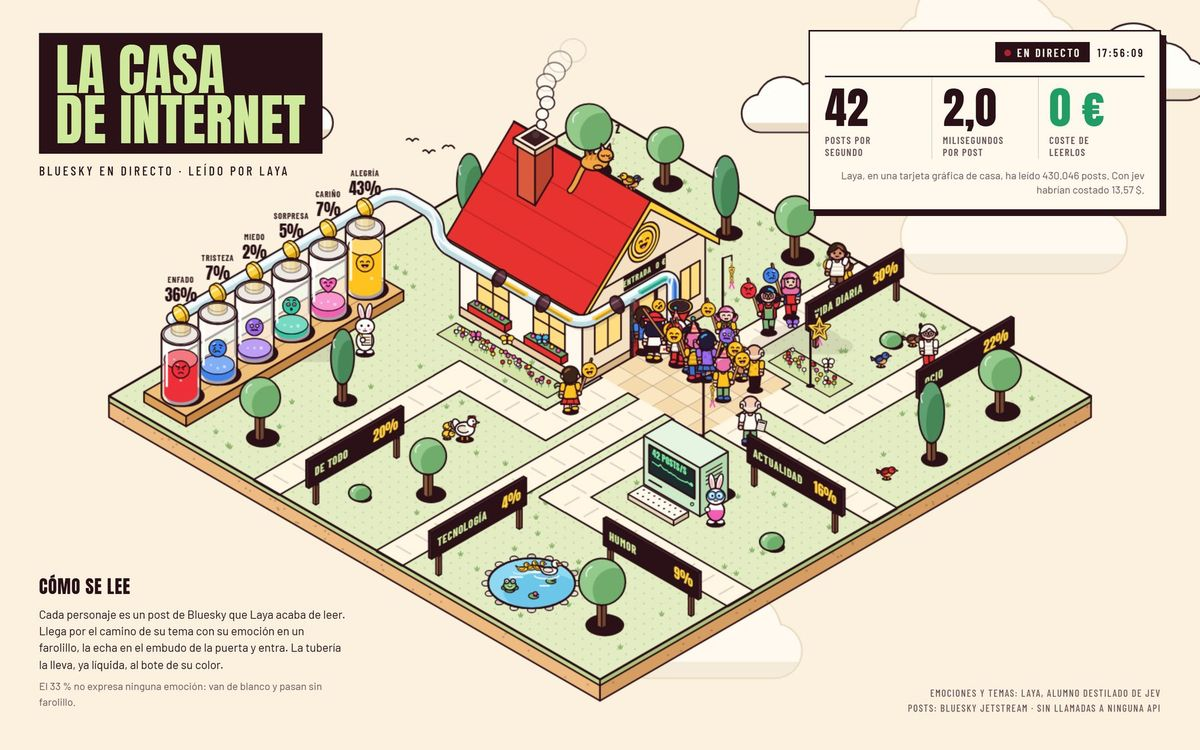
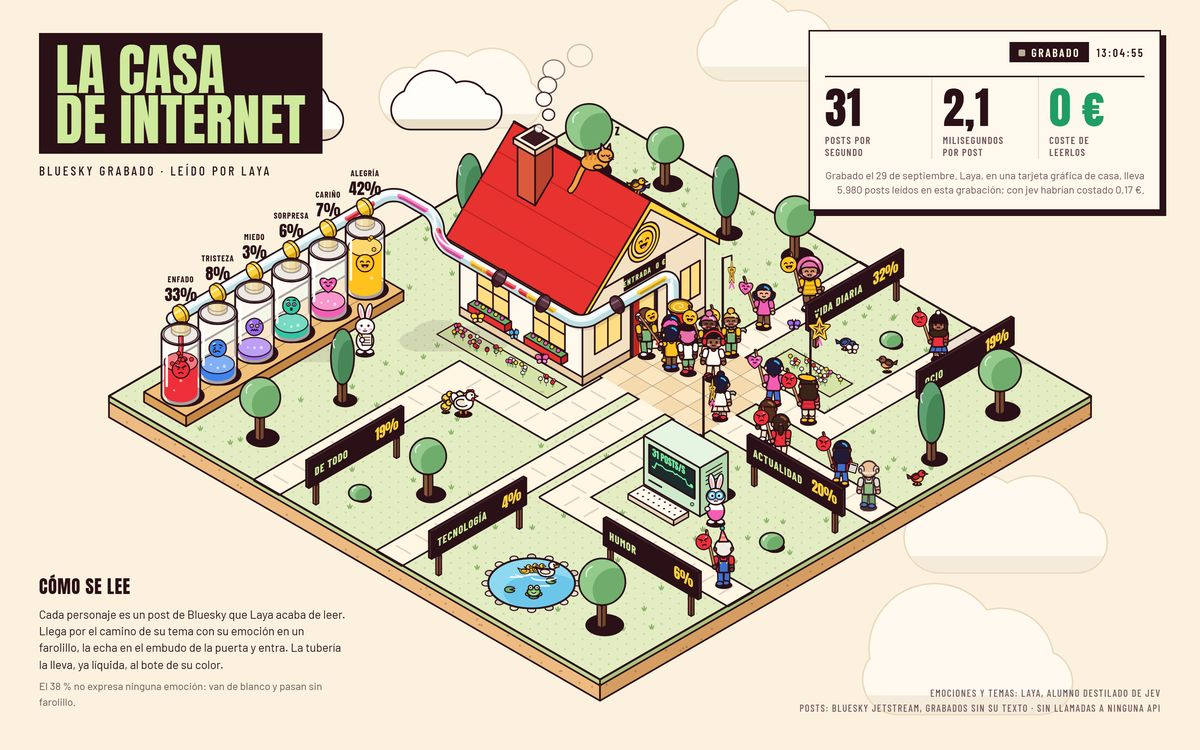
Capturas con los costes en euros y subtítulo corto en la casa grabada
El subtítulo de la versión grabada, con la fecha, era más largo que el del directo
y se montaba sobre la etiqueta del bote de alegría; la fecha ya sale en la nota.

Claude-Session: https://claude.ai/code/session_01CSoqnJH7vqbRjwjvzXemqk

diff --git a/index.html b/index.html
@@ -99,7 +99,7 @@ footer p { margin: 0 0 8px; max-width: 90ch; }
 
     <article class="demo">
       <div class="pics">
-        <img src="demos/img/comecocos-jev.jpg" alt="El comecocos con la bandera de España en el laberinto, los rivales con sus banderas y un panel con las probabilidades de cada salida" width="900" height="715">
+        <img src="demos/img/comecocos-jev.jpg" alt="El comecocos con la bandera de España en el laberinto, los rivales con sus banderas y un panel con las probabilidades de cada salida" width="900" height="663">
         <img src="demos/img/comecocos-laya.jpg" alt="El laberinto durante una partida de Laya" width="596" height="626">
       </div>
       <div class="body">

diff --git a/bluesky/static/casa.html b/bluesky/static/casa.html
@@ -1983,7 +1983,7 @@ async function playRecording(url) {
   const day = new Date(rec.recorded_at * 1000).toLocaleDateString("es-ES", { day: "numeric", month: "long", year: "numeric" });
   $("pill").classList.add("rec");
   $("pill-t").textContent = "GRABADO";
-  $("sub").textContent = `Bluesky, grabado el ${day} · leído por Laya`;
+  $("sub").textContent = "Bluesky grabado · leído por Laya";   // la fecha va en la nota: larga, pisaba los botes
   $("cred-posts").textContent = "Posts: Bluesky Jetstream, grabados sin su texto · sin llamadas a ninguna API";
   const last = rec.batches[rec.batches.length - 1][0];
   if (rec.hello && rec.hello.history) loadHistory(rec.hello.history);
